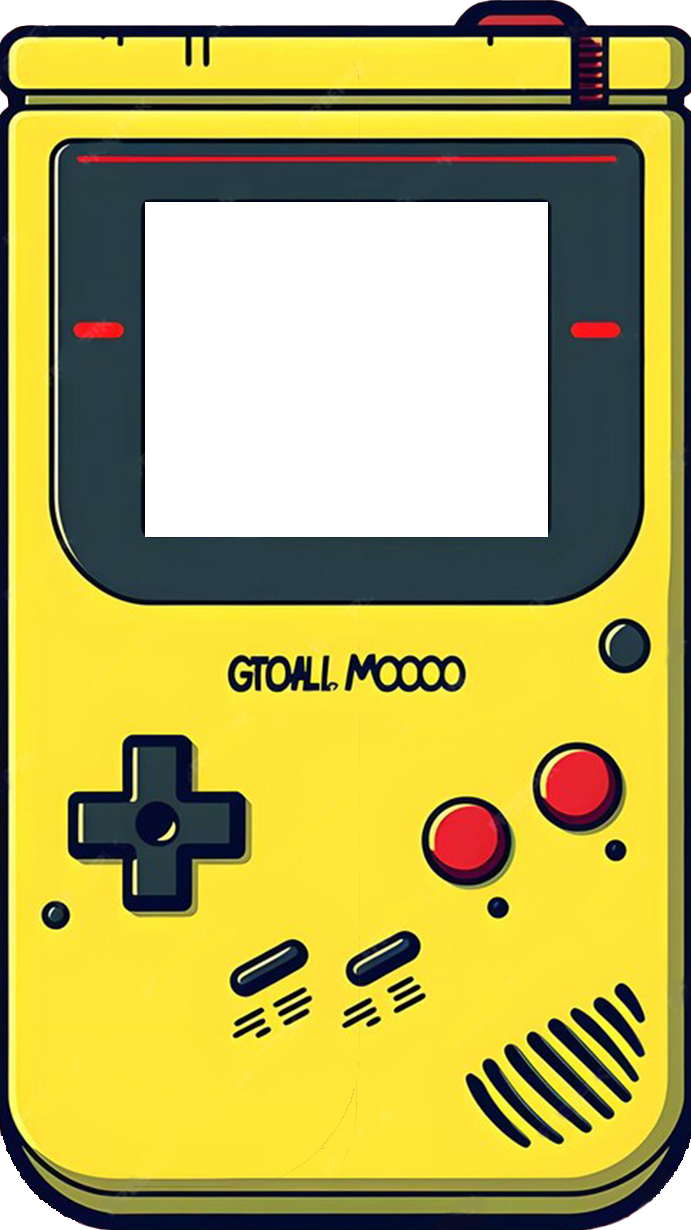
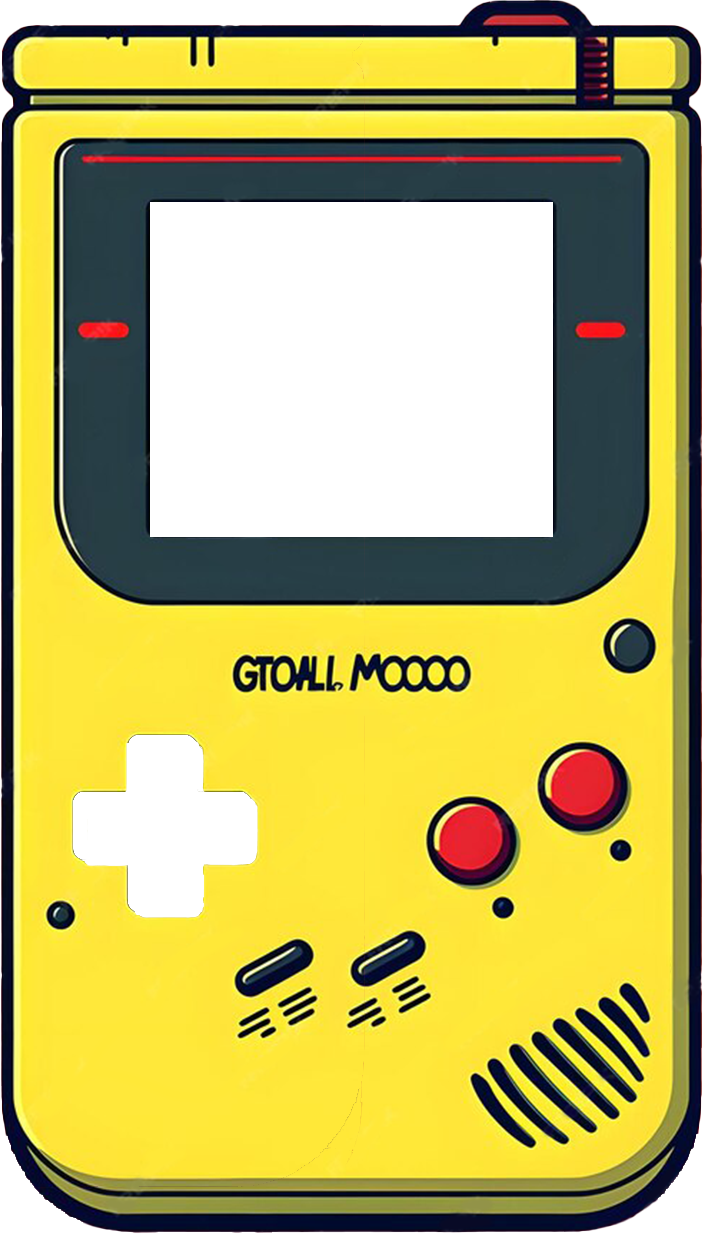
fix: btn aniamtion

diff --git a/src/components/home/index.jsx b/src/components/home/index.jsx
@@ -184,8 +184,15 @@ export default function Home() {
   }
 
   const backSateAction = () => {
-    setUserStepNavigation((prev) => prev.slice(0, -1))
-    setData(userStepNavigation.at(-1))
+    if (userStepNavigation.length > 0) {
+      const scrollerElement = document.getElementById("scroller-screen")
+      scrollerElement.scroll({
+        top: 0,
+      })
+      setUserStepNavigation((prev) => prev.slice(0, -1))
+      setData(userStepNavigation.at(-1))
+      moveArrow("up", true)
+    }
   }
 
   const selectOption = () => {
@@ -198,30 +205,41 @@ export default function Home() {
     moveArrow("up", true)
   }
 
+  const keyUp = () => {
+    if (typeof data.data === "string") {
+      scrollOnTextContent(-10)
+      return
+    }
+    moveArrow("up")
+  }
+
+  const keyDown = () => {
+    if (typeof data.data === "string") {
+      scrollOnTextContent(+10)
+      return
+    }
+    moveArrow("down")
+  }
+
+  const keyEnter = () => {
+    if (typeof data.data !== "string") {
+      selectOption()
+    } else {
+      backSateAction()
+      moveArrow("up", true)
+    }
+  }
+
   useEffect(() => {
     const handleKeyDown = (event) => {
       if (event.keyCode === 38) {
         // Up arrow
-        if (typeof data.data === "string") {
-          scrollOnTextContent(-10)
-          return
-        }
-        moveArrow("up")
+        keyUp()
       } else if (event.keyCode === 40) {
-        // Down arrow
-        if (typeof data.data === "string") {
-          scrollOnTextContent(+10)
-          return
-        }
-        moveArrow("down")
+        keyDown()
       } else if (event.keyCode === 13) {
         // Enter  presed
-        if (typeof data.data !== "string") {
-          selectOption()
-        } else {
-          backSateAction()
-          moveArrow("up", true)
-        }
+        keyEnter()
       }
     }
 
@@ -236,10 +254,17 @@ export default function Home() {
   return (
     <section>
       <div className="relative h-[650px] w-[365px] m-auto">
-        {/* <img
+        <img
           src="/assets/img/console.png"
           className="h-[650px] w-[365px] absolute z-10 bg-no-repeat bg-contain"
-        /> */}
+        />
+        <div className="dpad">
+          <div className="dpad-up main-btn" onClick={keyUp}></div>
+          <div className="dpad-down main-btn" onClick={keyDown}></div>
+          <div className="dpad-left main-btn" onClick={backSateAction}></div>
+          <div className="dpad-right main-btn" onClick={keyEnter}></div>
+          <div className="dpad-center"></div>
+        </div>
         <div
           className="absolute p-1 font-SaboRegular text-xs text-black z-0 bg-[#2b5329] w-[214px] h-[178px] left-1/2 top-[106px] -translate-x-1/2  overflow-hidden overflow-y-scroll scroll-width-none"
           id="scroller-screen"

diff --git a/src/styles/global.scss b/src/styles/global.scss
@@ -30,3 +30,77 @@ body {
   -ms-overflow-style: none; /* IE and Edge */
   scrollbar-width: none; /* Firefox */
 }
+
+.dpad {
+  position: absolute;
+  width: 100px;
+  height: 100px;
+  display: flex;
+  justify-content: center;
+  align-items: center;
+  bottom: 165px; /* Adjust position to fit your layout */
+  left: 35px; /* Adjust position to fit your layout */
+  z-index: 11;
+}
+
+.dpad .main-btn {
+  position: absolute;
+  background: #233c42; /* Dark color for the D-pad */
+  box-shadow: 3px 3px 6px rgba(0, 0, 0, 0.5),
+    -3px -3px 6px rgba(255, 255, 255, 0.1);
+  border-radius: 5px;
+  transition: transform 0.1s ease-in-out;
+  background-image: url("/public/assets/img/btn-bg.png");
+  background-repeat: no-repeat;
+  background-size: cover;
+}
+
+/* Up Button */
+.dpad-up {
+  top: 5px;
+  width: 36px;
+  height: 50px;
+  border-radius: 10px 10px 0 0;
+}
+
+/* Down Button */
+.dpad-down {
+  bottom: 5px;
+  width: 36px;
+  height: 50px;
+  border-radius: 0 0 10px 10px;
+}
+
+/* Left Button */
+.dpad-left {
+  left: 5px;
+  width: 50px;
+  height: 32px;
+  border-radius: 10px 0 0 10px;
+}
+
+/* Right Button */
+.dpad-right {
+  right: 5px;
+  width: 50px;
+  height: 32px;
+  border-radius: 0 10px 10px 0;
+}
+.dpad-center {
+  width: 40px;
+  height: 40px;
+  background: #000 !important;
+  border-radius: 100% !important;
+  position: absolute;
+  background: #233c42; /* Dark color for the D-pad */
+  box-shadow: 3px 3px 6px rgba(0, 0, 0, 0.5),
+    -3px -3px 6px rgba(255, 255, 255, 0.1);
+  border-radius: 5px;
+  background-image: url("/public/assets/img/center-btn.png") !important;
+}
+
+/* 3D Press effect for when the buttons are clicked */
+.dpad .main-btn:active {
+  transform: translateY(3px); /* Simulates pressing down */
+  box-shadow: inset 2px 2px 4px rgba(0, 0, 0, 0.5);
+}

diff --git a/src/components/home/List.jsx b/src/components/home/List.jsx
@@ -16,10 +16,10 @@ export default function List({ data, userStepNavigation }) {
               >
                 <p className="text-left">{row.title}</p>
               </li>
-              {key === data.length - 1 && userStepNavigation.length && (
+              {key === data.length - 1 && userStepNavigation.length > 0 && (
                 <li
                   className="list-none menu-items"
-                  key={key + 1}
+                  key={key + 2}
                   id={`menu-option-${key + 2}`}
                   data-tag="back-option"
                 >
